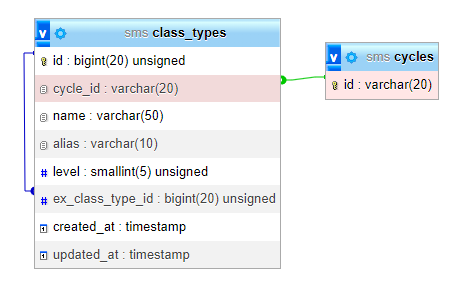
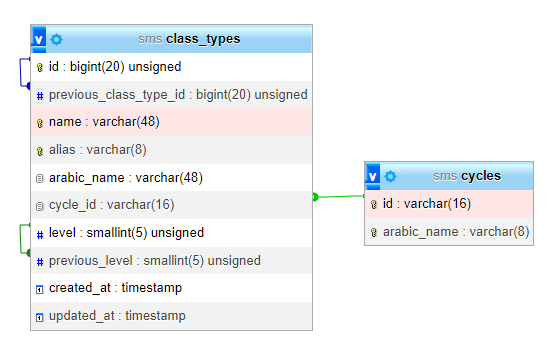
Fix class_types migartion + set models table prop

Changed region(s): [[0.0309, 0.0625, 0.989, 0.9375], [0.5563, 0.4375, 0.989, 0.7188], [0.5563, 0.75, 0.5872, 0.8438]]

diff --git a/database/migrations/create_class_types_table.php b/database/migrations/create_class_types_table.php
@@ -6,7 +6,7 @@ use Illuminate\Support\Facades\Schema;
 
 return new class extends Migration
 {
-    public function up()
+    public function up(): void
     {
         Schema::create(config('algerian-education-system.class_types_table_name') ?? 'class_types', function (Blueprint $table) {
             $table->id();
@@ -16,14 +16,22 @@ return new class extends Migration
             $table->string('alias', 8)->unique();
             $table->string('arabic_name', 48)->index();
             $table->string('cycle_id', 16);
-            $table->unsignedSmallInteger('level');
+            $table->unsignedSmallInteger('level')->index();
             $table->unsignedSmallInteger('previous_level')->nullable();
 
             $table->timestamps();
 
             $table->foreign('cycle_id')->references('id')->on(config('algerian-education-system.cycles_table_name') ?? 'cycles');
             $table->foreign('previous_class_type_id')->references('id')->on(config('algerian-education-system.class_types_table_name') ?? 'class_types');
+        });
+
+        Schema::table(config('algerian-education-system.class_types_table_name') ?? 'class_types', function (Blueprint $table) {
             $table->foreign('previous_level')->references('level')->on(config('algerian-education-system.class_types_table_name') ?? 'class_types');
         });
+    }
+
+    public function down(): void
+    {
+        Schema::dropIfExists(config('algerian-education-system.class_types_table_name') ?? 'class_types');
     }
 };

diff --git a/src/Models/ClassType.php b/src/Models/ClassType.php
@@ -10,6 +10,13 @@ class ClassType extends Model
 {
     protected $guarded = ['id'];
 
+    public function __construct(array $attributes = [])
+    {
+        parent::__construct($attributes);
+
+        $this->table = config('algerian-education-system.class_types_table_name') ?? 'class_types';
+    }
+
     /*
     |-------------------------------------
     | Relationships
@@ -30,12 +37,12 @@ class ClassType extends Model
         return $this->hasMany(self::class, 'previous_class_type_id', 'id');
     }
 
-    public function previousLevelClassTypes()
+    public function previousLevelClassTypes(): HasMany
     {
         return $this->hasMany(self::class, 'level', 'previous_level');
     }
 
-    public function nextLevelClassTypes()
+    public function nextLevelClassTypes(): HasMany
     {
         return $this->hasMany(self::class, 'previous_level', 'level');
     }

diff --git a/src/Models/Cycle.php b/src/Models/Cycle.php
@@ -3,6 +3,7 @@
 namespace ElaborateCode\AlgerianEducationSystem\Models;
 
 use Illuminate\Database\Eloquent\Model;
+use Illuminate\Database\Eloquent\Relations\HasMany;
 
 class Cycle extends Model
 {
@@ -14,12 +15,19 @@ class Cycle extends Model
 
     protected $fillable = [];
 
+    public function __construct(array $attributes = [])
+    {
+        parent::__construct($attributes);
+
+        $this->table = config('algerian-education-system.cycles_table_name') ?? 'cycles';
+    }
+
     /*
     |-------------------------------------
     | Relationships
     |-------------------------------------
     */
-    public function classTypes()
+    public function classTypes(): HasMany
     {
         return $this->hasMany(ClassType::class, 'cycle_id', 'id');
     }

diff --git a/database/migrations/create_cycles_table.php b/database/migrations/create_cycles_table.php
@@ -6,11 +6,16 @@ use Illuminate\Support\Facades\Schema;
 
 return new class extends Migration
 {
-    public function up()
+    public function up(): void
     {
         Schema::create(config('algerian-education-system.cycles_table_name') ?? 'cycles', function (Blueprint $table) {
             $table->string('id', 16)->primary();
             $table->string('arabic_name', 8)->unique();
         });
+    }
+
+    public function down(): void
+    {
+        Schema::dropIfExists(config('algerian-education-system.cycles_table_name') ?? 'cycles');
     }
 };

diff --git a/tables.md b/tables.md
@@ -2,36 +2,49 @@
 
 ![database](db.png)
 
+
+## cycles
+
+`create_cycles_table` migration + `ClassTypeSeeder` or `AlgerianEducatifSystemSeeder`
+
+| id             | arabic_name |
+| -------------- | ----------- |
+| "pre-scolaire" | "تحضيري"    |
+| "primaire"     | "ابتدائي"    |
+| "moyen"        | "متوسط"    |
+| "secondaire"   | "ثانوي"    |
+
 ## class_types
 
-`create_class_types_table` migration + `ClassTypeSeeder`
+`create_class_types_table` migration + `ClassTypeSeeder` or `AlgerianEducatifSystemSeeder`
 
-| id  | cycle_id       | name                                | alias    | level | previous_class_type_id | created_at | updated_at |
-| --- | -------------- | ----------------------------------- | -------- | ----- | ---------------------- | ---------- | ---------- |
-| 1   | "pre-scolaire" | "pre-scolaire"                      | "pre"    | 1     | NULL                   |            |            |
-| 2   | "primaire"     | "1re AP"                            | "1ap"    | 2     | 1                      |            |            |
-| 3   | "primaire"     | "2e AP"                             | "2ap"    | 3     | 2                      |            |            |
-| 4   | "primaire"     | "3e AP"                             | "3ap"    | 4     | 3                      |            |            |
-| 5   | "primaire"     | "4e AP"                             | "4ap"    | 5     | 4                      |            |            |
-| 6   | "primaire"     | "5e AP"                             | "5ap"    | 6     | 5                      |            |            |
-| 7   | "moyen"        | "1re AM"                            | "1am"    | 7     | 6                      |            |            |
-| 8   | "moyen"        | "2e AM"                             | "2am"    | 8     | 7                      |            |            |
-| 9   | "moyen"        | "3e AM"                             | "3am"    | 9     | 8                      |            |            |
-| 10  | "moyen"        | "4e AM"                             | "4am"    | 10    | 9                      |            |            |
-| 11  | "secondaire"   | "1re AS TC sciences et technologie" | "1as-st" | 11    | 10                     |            |            |
-| 12  | "secondaire"   | "1re AS TC lettres"                 | "1as-l"  | 11    | 10                     |            |            |
-| 13  | "secondaire"   | "2e AS sciences experimentales"     | "2as-s"  | 12    | 11                     |            |            |
-| 14  | "secondaire"   | "2e AS gestion et economie"         | "2as-ge" | 12    | 11                     |            |            |
-| 15  | "secondaire"   | "2e AS math"                        | "2as-m"  | 12    | 11                     |            |            |
-| 16  | "secondaire"   | "2e AS technique mathematique"      | "2as-tm" | 12    | 11                     |            |            |
-| 17  | "secondaire"   | "2e AS langues etrangères"          | "2as-le" | 12    | 12                     |            |            |
-| 18  | "secondaire"   | "2e AS lettres - philosophie"       | "2as-lp" | 12    | 12                     |            |            |
-| 19  | "secondaire"   | "3e AS sciences experimentales"     | "3as-s"  | 13    | 13                     |            |            |
-| 20  | "secondaire"   | "3e AS gestion et economie"         | "3as-ge" | 13    | 14                     |            |            |
-| 21  | "secondaire"   | "3e AS math"                        | "3as-m"  | 13    | 15                     |            |            |
-| 22  | "secondaire"   | "3e AS technique mathematique"      | "3as-tm" | 13    | 16                     |            |            |
-| 23  | "secondaire"   | "3e AS langues etrangères"          | "3as-le" | 13    | 17                     |            |            |
-| 24  | "secondaire"   | "3e AS lettres - philosophie"       | "3as-lp" | 13    | 18                     |            |            |
+| id  | previous_class_type_id | name                                | alias    | arabic_name | cycle_id       | level | previous_level | created_at | updated_at |
+| --- | ---------------------- | ----------------------------------- | -------- | ----------- | -------------- | ----- | -------------- | ---------- | ---------- |
+| 1   | NULL                   | "pre-scolaire"                      | "pre"    |             | "pre-scolaire" | 1     | NULL           |            |            |
+| 2   | 1                      | "1re AP"                            | "1ap"    |             | "primaire"     | 2     | 1              |            |            |
+| 3   | 2                      | "2e AP"                             | "2ap"    |             | "primaire"     | 3     | 2              |            |            |
+| 4   | 3                      | "3e AP"                             | "3ap"    |             | "primaire"     | 4     | 3              |            |            |
+| 5   | 4                      | "4e AP"                             | "4ap"    |             | "primaire"     | 5     | 4              |            |            |
+| 6   | 5                      | "5e AP"                             | "5ap"    |             | "primaire"     | 6     | 5              |            |            |
+| 7   | 6                      | "1re AM"                            | "1am"    |             | "moyen"        | 7     | 6              |            |            |
+| 8   | 7                      | "2e AM"                             | "2am"    |             | "moyen"        | 8     | 7              |            |            |
+| 9   | 8                      | "3e AM"                             | "3am"    |             | "moyen"        | 9     | 8              |            |            |
+| 10  | 9                      | "4e AM"                             | "4am"    |             | "moyen"        | 10    | 9              |            |            |
+| 11  | 10                     | "1re AS TC sciences et technologie" | "1as-st" |             | "secondaire"   | 11    | 10             |            |            |
+| 12  | 10                     | "1re AS TC lettres"                 | "1as-l"  |             | "secondaire"   | 11    | 10             |            |            |
+| 13  | 11                     | "2e AS sciences experimentales"     | "2as-s"  |             | "secondaire"   | 12    | 11             |            |            |
+| 14  | 11                     | "2e AS gestion et economie"         | "2as-ge" |             | "secondaire"   | 12    | 11             |            |            |
+| 15  | 11                     | "2e AS math"                        | "2as-m"  |             | "secondaire"   | 12    | 11             |            |            |
+| 16  | 11                     | "2e AS technique mathematique"      | "2as-tm" |             | "secondaire"   | 12    | 11             |            |            |
+| 17  | 12                     | "2e AS langues etrangères"          | "2as-le" |             | "secondaire"   | 12    | 11             |            |            |
+| 18  | 12                     | "2e AS lettres - philosophie"       | "2as-lp" |             | "secondaire"   | 12    | 11             |            |            |
+| 19  | 13                     | "3e AS sciences experimentales"     | "3as-s"  |             | "secondaire"   | 13    | 12             |            |            |
+| 20  | 14                     | "3e AS gestion et economie"         | "3as-ge" |             | "secondaire"   | 13    | 12             |            |            |
+| 21  | 15                     | "3e AS math"                        | "3as-m"  |             | "secondaire"   | 13    | 12             |            |            |
+| 22  | 16                     | "3e AS technique mathematique"      | "3as-tm" |             | "secondaire"   | 13    | 12             |            |            |
+| 23  | 17                     | "3e AS langues etrangères"          | "3as-le" |             | "secondaire"   | 13    | 12             |            |            |
+| 24  | 18                     | "3e AS lettres - philosophie"       | "3as-lp" |             | "secondaire"   | 13    | 12             |            |            |
+
 
 ## References
 
